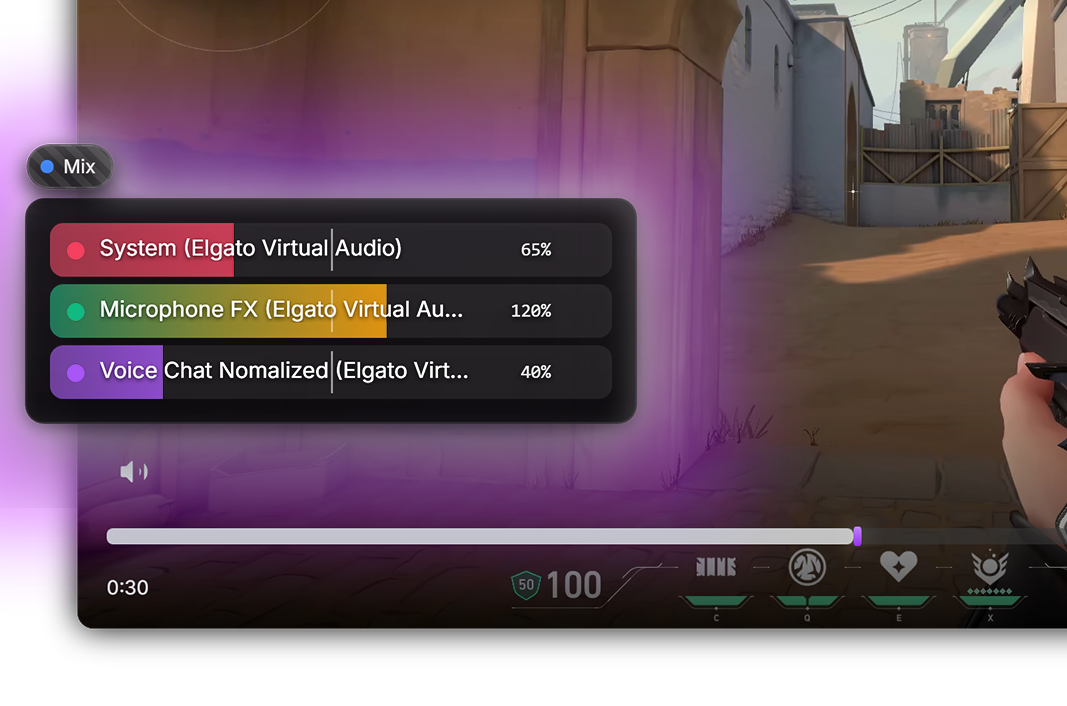
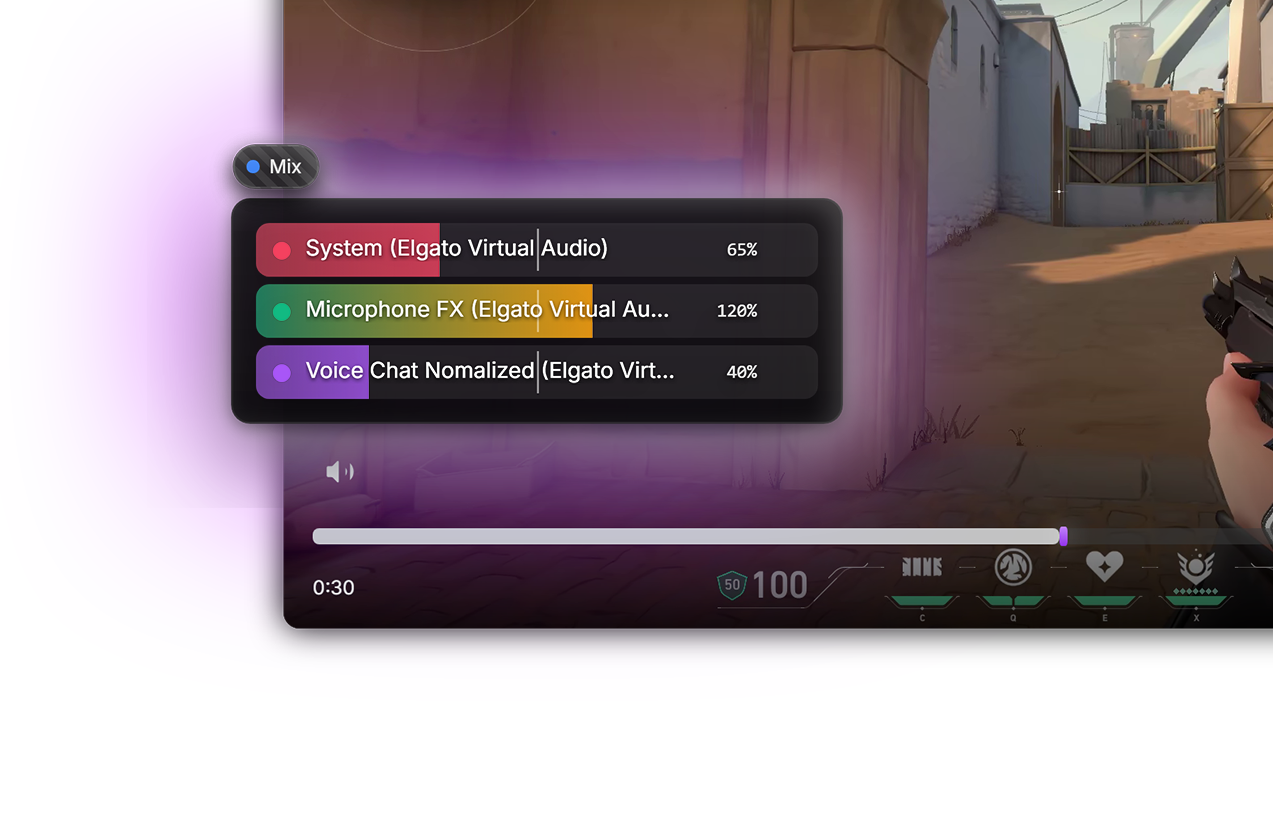
onboarding: fit stage assets to their measured content bounds
The fixed offsets cropped real content at the panel edge (the overlay
card text, the mixer video frame). Each asset placement is now derived
from its alpha-channel bounding box (ffmpeg alphaextract+bbox): the
solid content sits fully inside the stage, aligned flush with the right
panel border, and only transparent padding and glow bleed past. Also
swaps in the updated mixer showcase whose left glow is no longer cut.

diff --git a/src/renderer/styles.css b/src/renderer/styles.css
@@ -4197,20 +4197,28 @@ button {
   color: var(--color-text-muted);
 }
 
-/* Per-asset framing: sized large and anchored past the right border so the
-   artwork runs off the panel edge (the panel overflow does the cropping). */
+/* Per-asset framing, derived from each file's measured alpha bounding box so
+   the solid content always lands inside the stage while only transparent
+   padding and glow hang off the edges (stage is ~592px wide at full size).
+   overlay.webp 1317w: card spans x270-1046 -> right -198 puts the card's
+   right edge flush with the panel border, glow streak bleeds past. */
 .ob-stage-clipdip img {
-  width: 860px;
-  right: -260px;
-  top: 42%;
+  width: 960px;
+  right: -198px;
+  top: 46%;
 }
+/* mixer png 1273w: video frame runs to the file's right edge, so it must sit
+   flush (right 0), never past it. Content bottom-heavy gap -> nudge down. */
 .ob-stage-mixer img {
-  width: 780px;
-  right: -120px;
+  width: 700px;
+  right: 0;
+  top: 56%;
 }
+/* pills png 1067w: content ends at x877, the last 190px are transparent ->
+   right -157 aligns the card's right edge with the panel border. */
 .ob-stage-pills img {
-  width: 800px;
-  right: -180px;
+  width: 880px;
+  right: -157px;
 }
 
 /* -- Feature list (welcome) -- */
